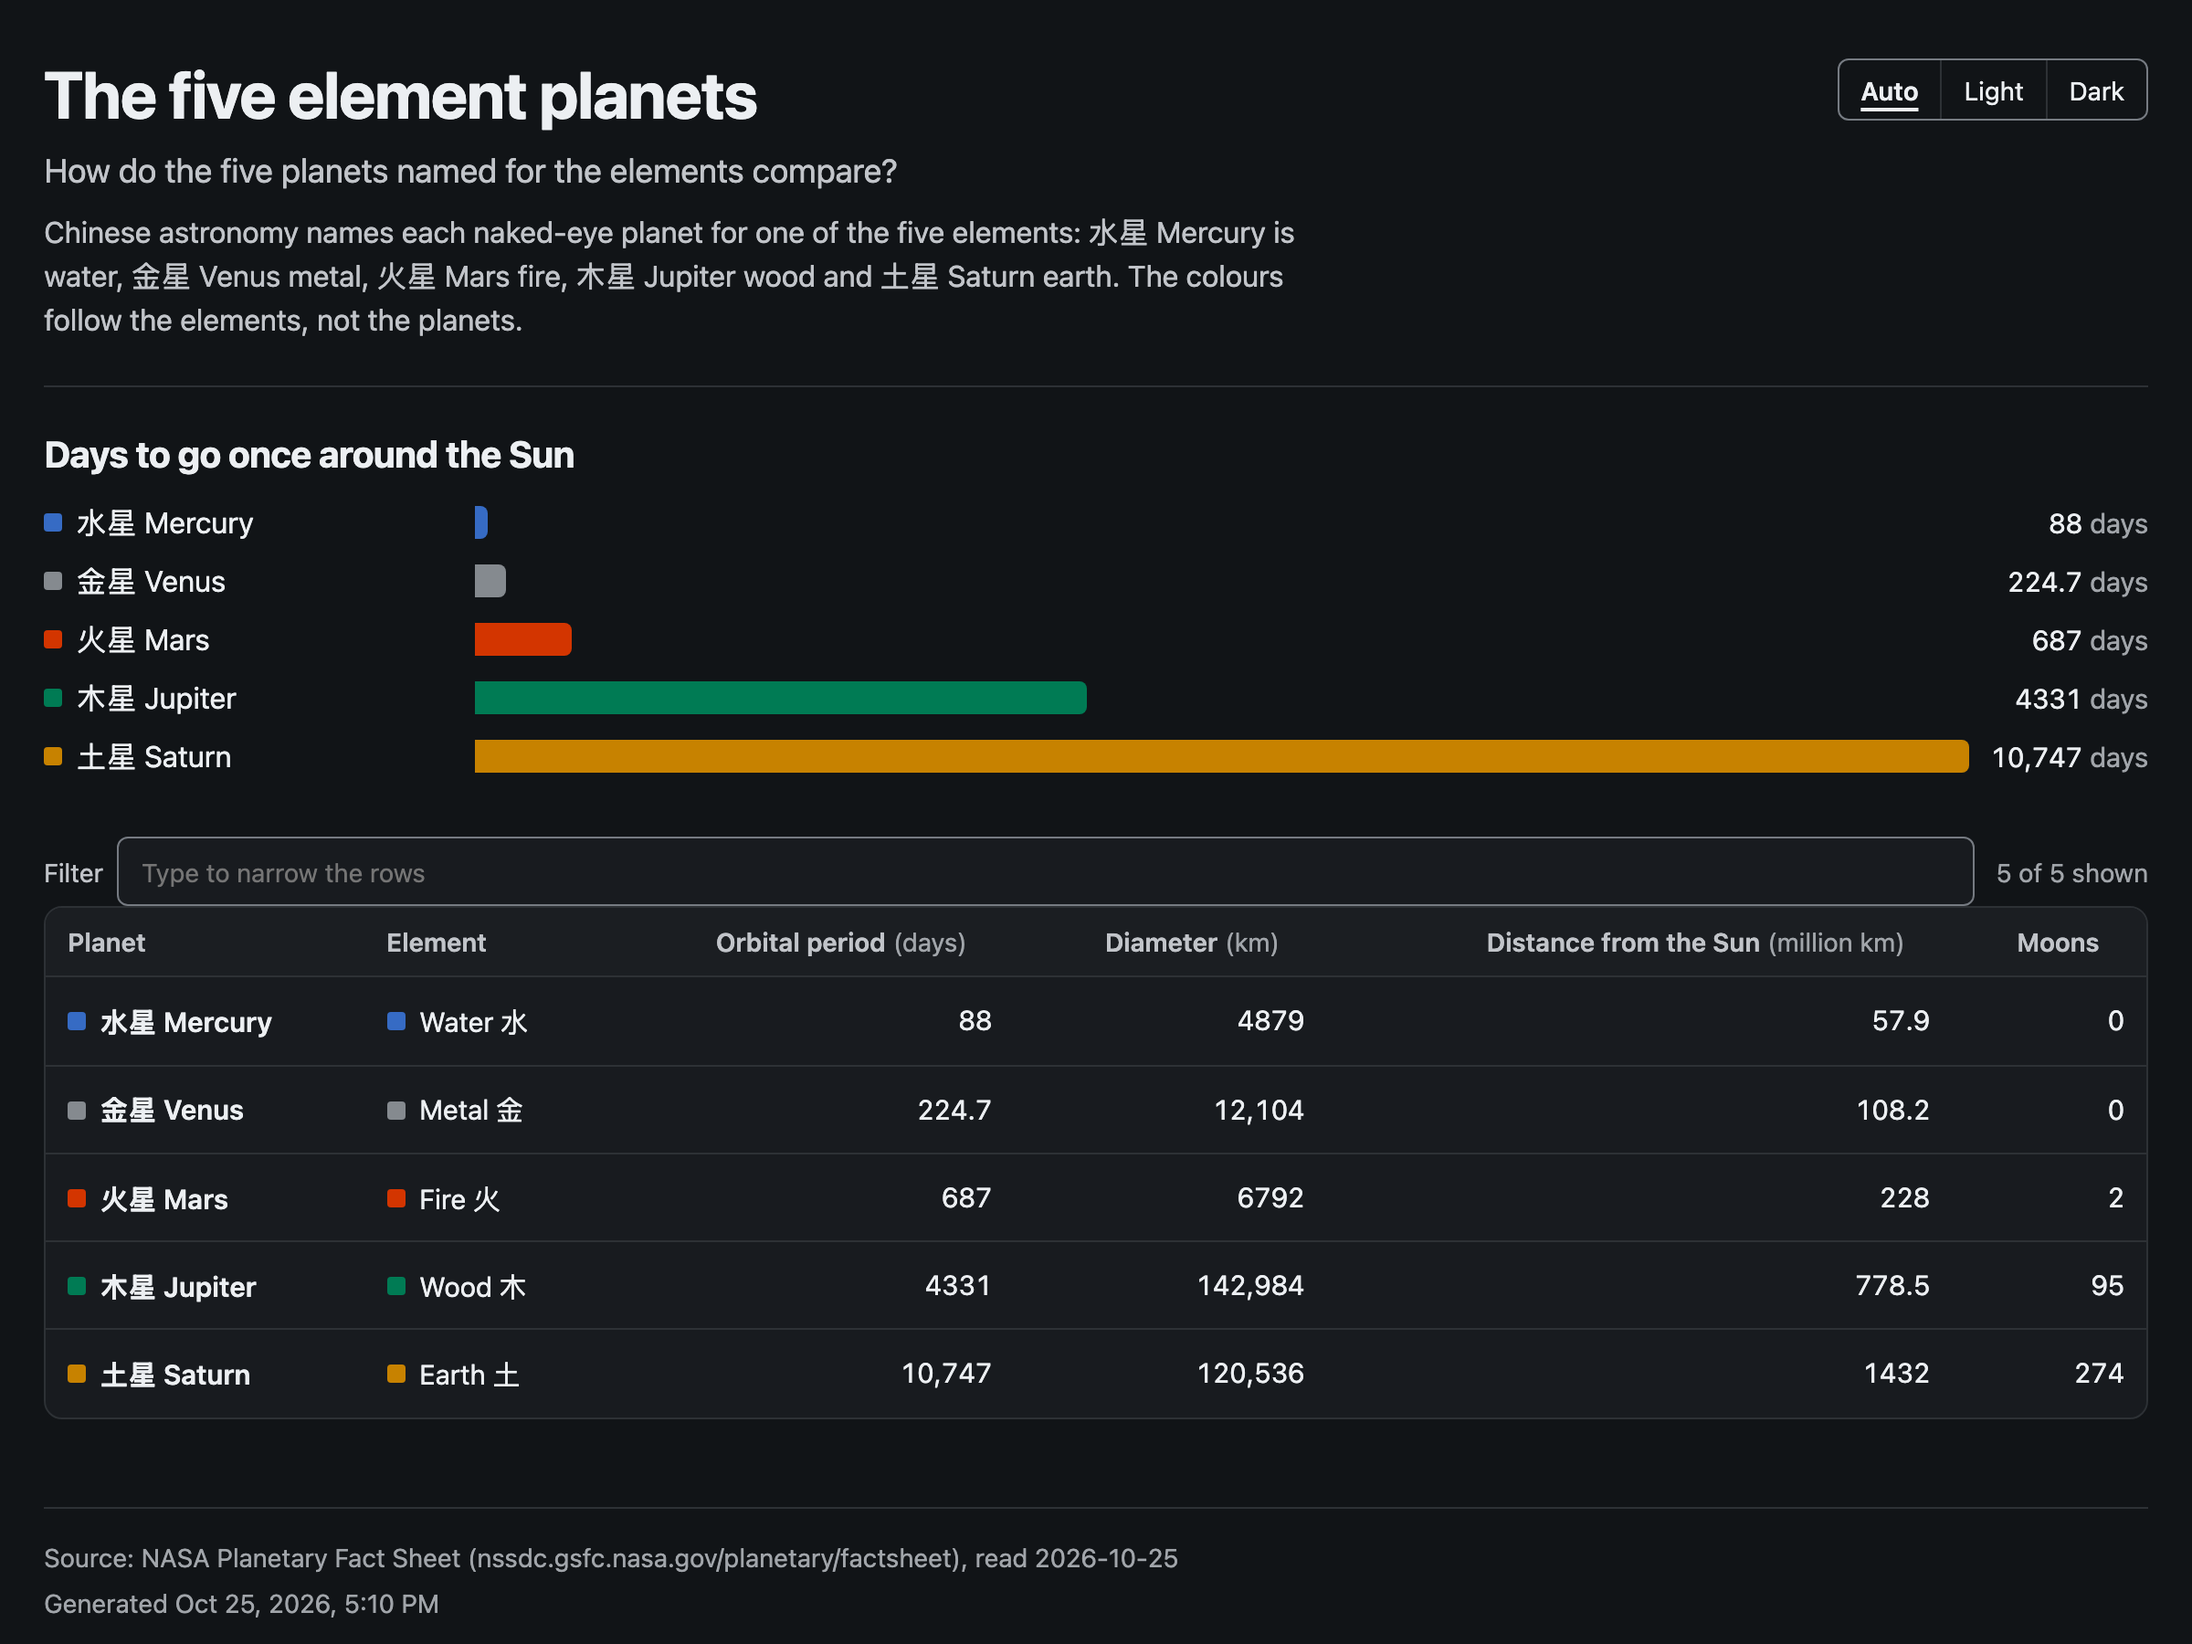
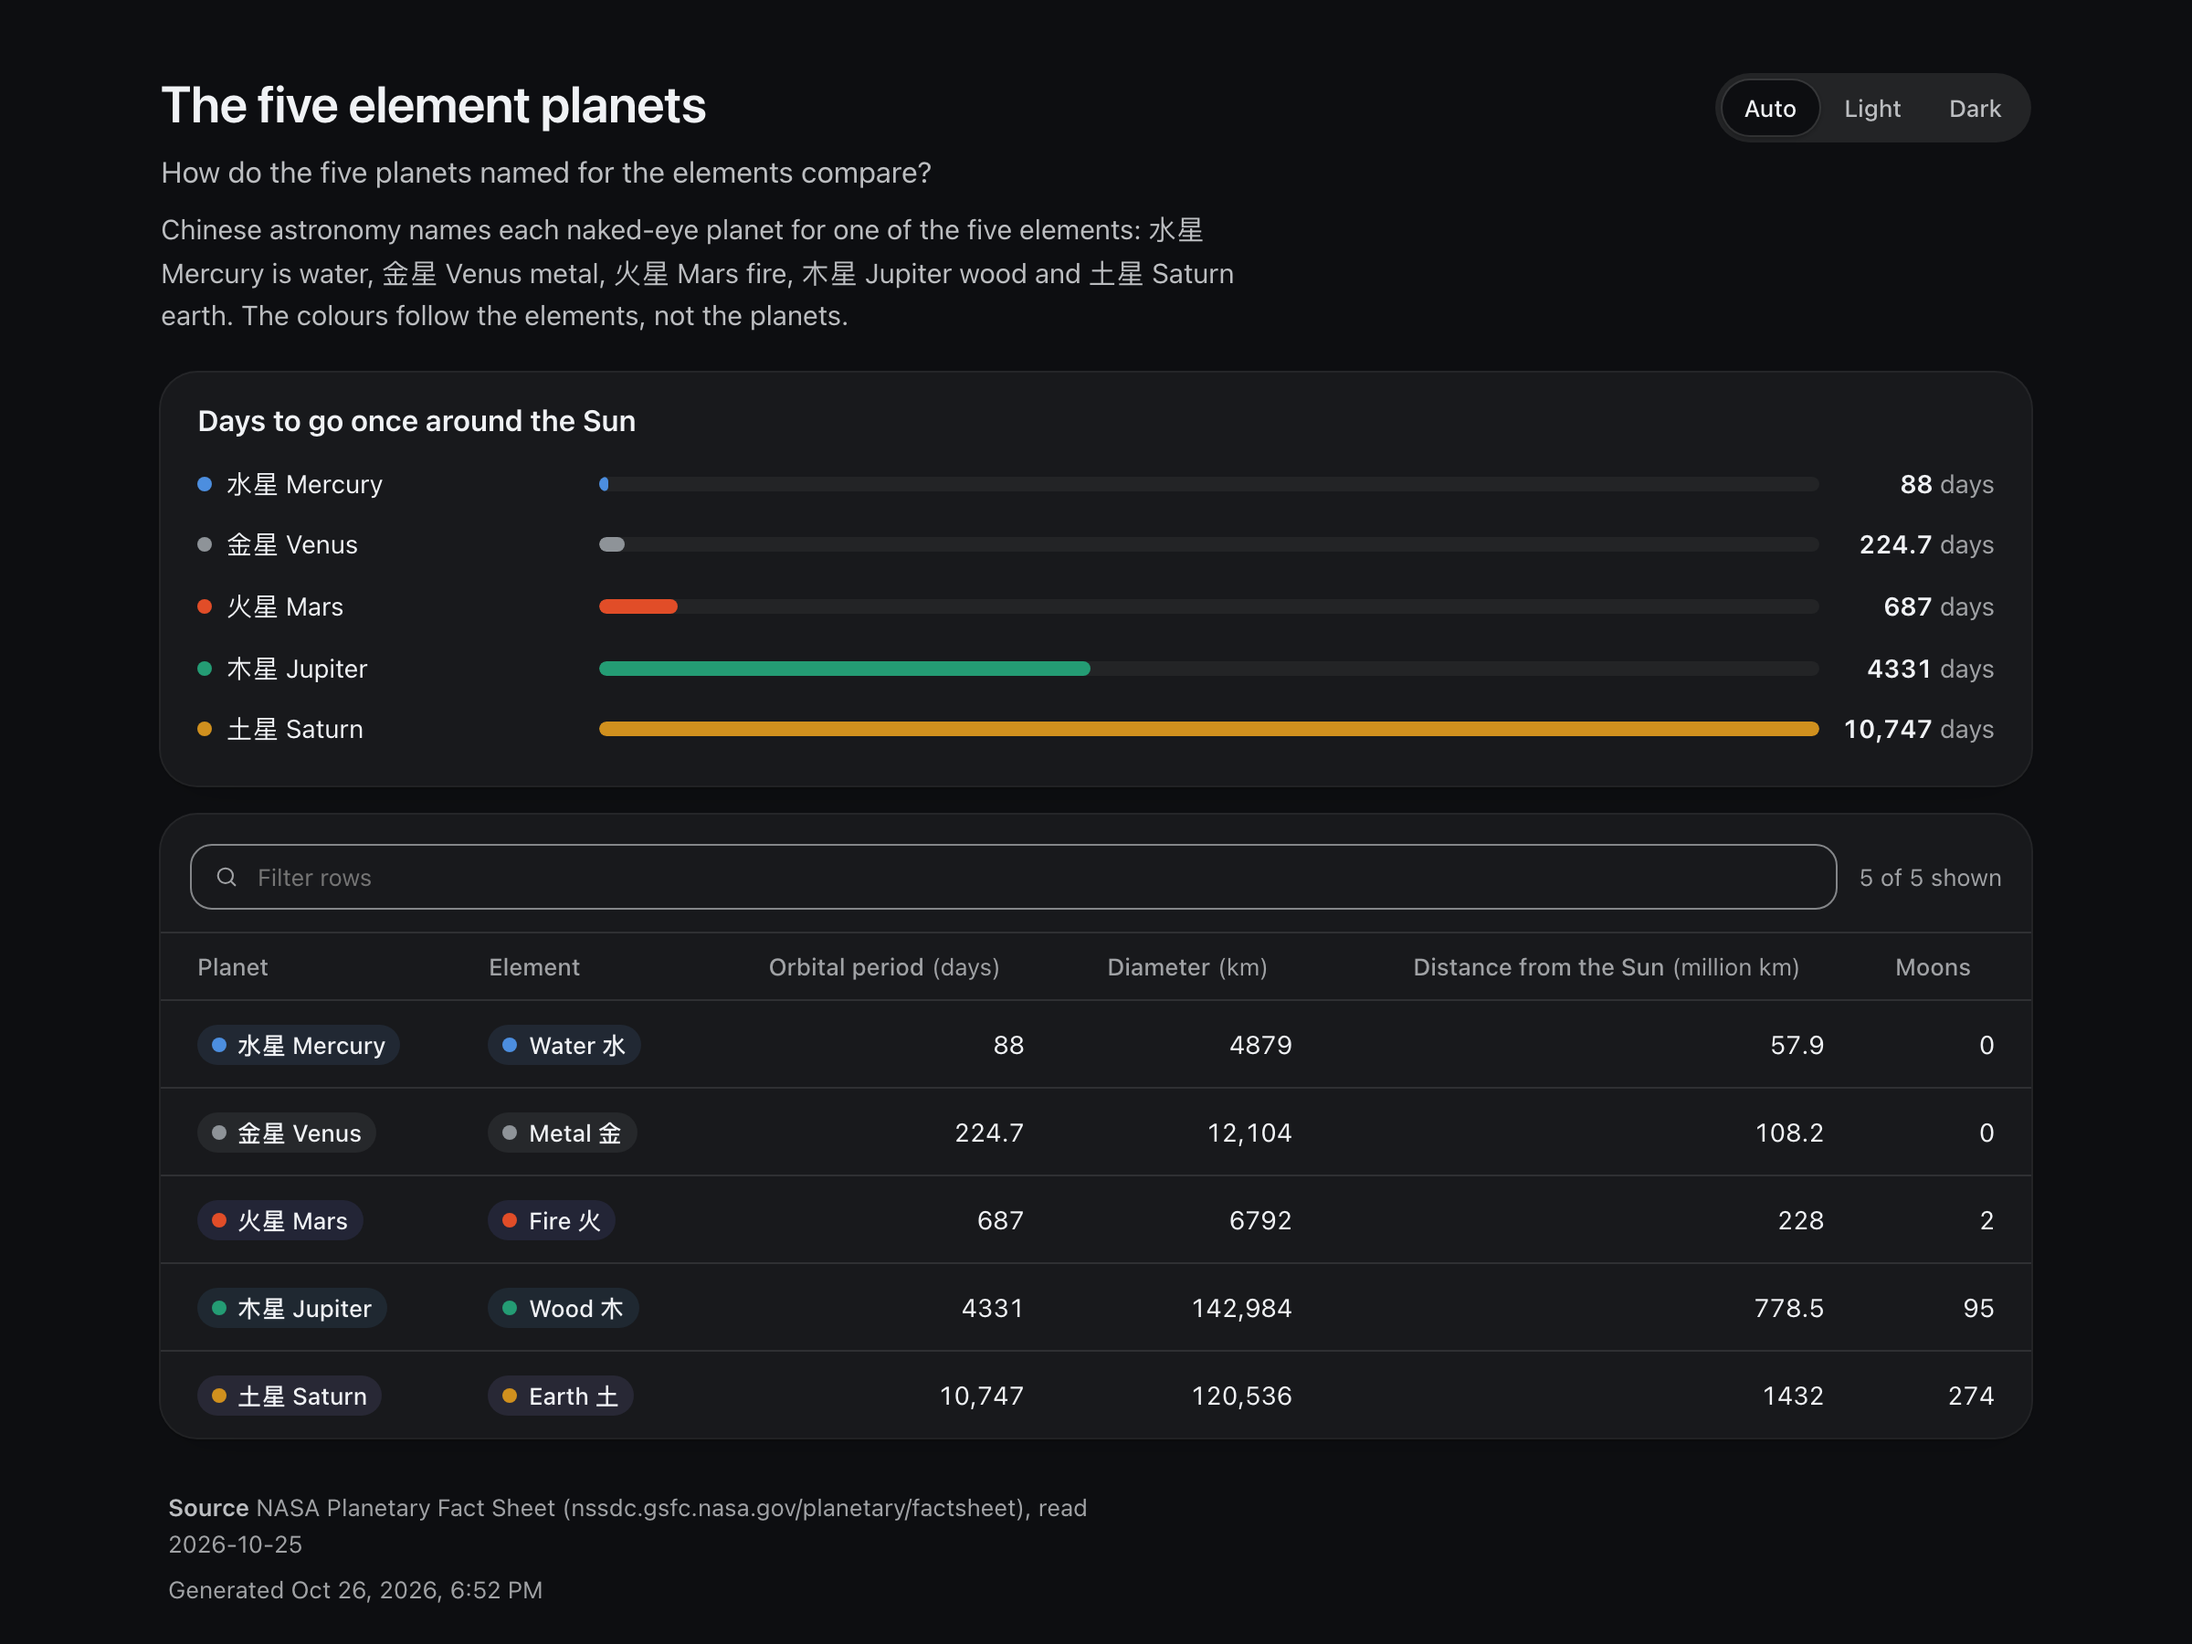
0.2.0: README pictures and hero from the new design; docs for the redesign
- examples/*.png and docs/hero.png recaptured from the 0.2.0 pages (motion
  settled before capture).
- references/shapes.md: best_label, highlights, tappable rows.
- CHANGELOG 0.2.0, DECISIONS (the reference used, where it differs and why,
  the trigger change), version bump.

diff --git a/docs/src/hero.html b/docs/src/hero.html
@@ -44,7 +44,7 @@
     <div class="term" aria-label="A request and what the renderer prints">
       <p class="you">show these checkpoints as a table I can sort and let me pick one</p>
       <p class="dim">page: /tmp/intelligent-ui-anything/comfyui-models.html</p>
-      <p class="dim">shape: compare, 10 rows, 53 KB</p>
+      <p class="dim">shape: compare, 10 rows, 75 KB</p>
       <p>check: <span class="ok">pass</span> <span class="dim">(floor 12/12, lint 0 FAIL)</span></p>
       <p class="dim">opened: yes, with open</p>
       <p class="decision">decision: Use model FLUX.2 [klein] 4B</p>

diff --git a/DECISIONS.md b/DECISIONS.md
@@ -44,6 +44,15 @@ Where this build differs from the brief, or settles something the brief left ope
 
 ## Design
 
+**0.2.0: the look of an answer in a chat, not a report.** Pulkit's bar on 2026-10-26 was ChatGPT's Intelligent UI. openai.com refuses automated browsers, and the press coverage carries no screenshots, so the visual language was taken from OpenAI's own Apps SDK UI (MIT, github.com/openai/apps-sdk-ui): neutral greys, hairline borders at 8 to 10 percent, soft shadows, 16 to 24 px card radii, pill buttons with a near-black primary, tinted status badges, system fonts in few sizes, 150 ms state changes. Its UI guidelines add the rules kept here: at most two actions per card, actions that start a conversation turn, brand colour only on the primary button. Three places differ on purpose:
+- Neutrals carry 0.005 chroma and the raised surface is 99.6 percent, not pure white: Hallmark's lint calls zero-chroma greys and pure white a reflex.
+- The decision dock is solid, not glass: the lint warns on a blur over a translucent fill, and the floor allows no warning.
+- Pills stay on controls and badges; dots and status icons are circles and bar tracks take small radii, per the lint's pill rule.
+
+Every shape was screenshotted at 1280 and 390 px in both themes after each change, and judged against that bar; the fixes it forced are in the 0.2.0 changelog (names wrapping, a badge that doubled row height, a table 60 px too wide, phone rows six lines tall, a dock that took three rows before anything was picked).
+
+**The trigger was the bigger gap.** On "lay out the options so I can choose one" the old description lost to prose, and a global "load the design skills" rule led the agent to hand-write HTML. The description now leads with the situation (an answer that makes the user compare, choose, read a long document, follow progress or review findings) and says to use the skill instead of hand-written HTML because its templates already pass a design check.
+
 **Colour is reserved for meaning.** Chrome is ink on paper; the accent is ink. Every hue on a page is a semantic token, so a colour always says something. Bars in a chart are one neutral colour unless the rows carry an identity (five elements) or the agent names a colour column: the first screenshot painted build times with CI status, which the dataviz rules forbid.
 
 **The five-element palette was computed, not picked.** A search over OKLCH candidates against the dataviz validator gave colour-blind separation ΔE 8.8 (light) and 8.6 (dark) over all pairs, normal-vision ΔE 17.4 and 15.3, and 3:1 contrast on every surface in both themes. Metal is iron grey on light paper and silver on dark, because white cannot show on white and gold collides with earth's ochre; it is under the chroma floor by design and named on every mark. Water is blue because black is the page's ink.

diff --git a/CHANGELOG.md b/CHANGELOG.md
@@ -1,5 +1,20 @@
 # Changelog
 
+## 0.2.0 (2026-10-26)
+
+The pages now look like an answer inside a chat, not a report.
+
+- One new locked theme in the visual language of ChatGPT's inline answers (after OpenAI's MIT-licensed Apps SDK UI tokens): neutral surfaces with a 0.005 chroma floor, white cards with hairline edges and soft shadows, pill controls, tinted meaning badges with a dot, an outlined icon sprite, and fewer type sizes. Floor 12/12 and Hallmark lint 0 FAIL, 0 REFLEX, 0 WARN on every template.
+- compare: a leaders strip (the best value of up to three `better` columns and who holds it), the table in a card with a radio column, whole rows tappable, best values as green check pills. On a phone each row becomes a small card with a two-column grid, and the column heads become a swipeable row of sort chips.
+- choose: whole cards tappable, the selected card ringed, facts as stats, pros and cons with icons, the recommendation as a badge with its reason under the summary.
+- track: a large progress figure, a status icon per step, the running step tinted.
+- inspect: an overview of lane counts, each lane a card with its count, severity as tinted pills, decisions as pill choices.
+- explain: the contents and the document in cards, changed sections marked with a bar in their meaning's colour.
+- The decision dock floats, sits as one quiet line until the first pick, opens with a short settle, and says Copied or Sent on the button itself.
+- Motion: cards rise and bars grow as if streamed (420 ms, ease-out), off for reduced motion and on live track pages so reloads do not flicker. Content is in the HTML and visible without script; a one-line head script adds the `js` class before first paint.
+- The description now leads with when an answer should be a page and says to use it instead of writing HTML by hand. Measured in a real `claude -p` setup with MCP servers and global rules: 6 of 7 should-trigger prompts and 0 of 4 should-not.
+- New compare options: `columns[].best_label`, `highlights: false`.
+
 ## 0.1.1 (2026-10-26)
 
 Acceptance pass on a second machine, and the move to the IndusCore-AI organisation.

diff --git a/references/shapes.md b/references/shapes.md
@@ -23,11 +23,13 @@ For several things with the same attributes. Optional bar chart for one measure;
 | `data` field | What it is |
 | --- | --- |
 | `rows` | list of objects, one per thing compared (required) |
-| `columns` | list of `{key, label, type, unit, better, max}` in display order; omit to use every key of the rows. The first column names each row |
+| `columns` | list of `{key, label, type, unit, better, best_label, max}` in display order; omit to use every key of the rows. The first column names each row |
 | `columns[].type` | `text`, `number`, `rating` (needs `max`), `tag` (a pill; a list makes several), `link` (`{text, href}` or a URL), `change` (signed finance change), or a meaning: `five-elements`, `severity`, `status`, `diff`. Omitted: inferred |
-| `columns[].better` | `higher` or `lower`: marks the best value as "highest" or "lowest" and sorts that way first |
+| `columns[].better` | `higher` or `lower`: the best value gets a green check pill, the column sorts that way first, and the column joins the leaders strip at the top |
+| `columns[].best_label` | the leaders-strip caption for that column, when "Highest GenEval" or "Lowest Weights" reads badly (for example `"Smallest download"`) |
+| `highlights` | `false` hides the leaders strip. It shows the best value of up to three `better` columns and who holds it; it needs three rows or more |
 | `chart` | `{value, label, title, unit, color}`: horizontal bars for the numeric column `value`. Bars are one neutral colour unless `color` names a column with a meaning, or a `five-elements` column exists |
-| `pick` | `true` or `{prompt, verb, header, note}`: each row gets a button; `prompt` is the line the agent gets, with `{key}` filled from the row (default `"Use {first column}"`) |
+| `pick` | `true` or `{prompt, verb, header, note}`: each row gets a radio and the whole row is tappable; `prompt` is the line the agent gets, with `{key}` filled from the row (default `"Use {first column}"`) |
 | `notes` | lines shown under the table (method, caveats) |
 
 ```json

diff --git a/README.md b/README.md
@@ -25,6 +25,7 @@ Claude Code · Codex CLI · Cursor · Antigravity · claude.ai
 Agents answer in prose. When the answer is ten models with six attributes each, or twenty findings across three sessions, prose makes you scroll, compare in your head and then type your choice back. This skill gives the agent five locked page templates instead. The agent writes JSON, a script fills the template, checks it, and opens it where you are. You sort, filter and pick. Your pick comes back to the agent as one line, by a Copy button or straight into the session.
 
 - **Five shapes, nothing else.** Compare, choose, explain, track, inspect. A question that fits none gets prose.
+- **Looks like an answer, not a report.** Cards, the leaders at a glance, tappable rows and options, status icons, a floating pick dock, and motion that streams in. Light, dark and phone layouts are designed, not shrunk.
 - **The decision comes back.** Every pick shows the exact line the agent will get. Served pages send it with one click.
 - **Opens where you are.** An artifact in Claude Code, your browser in a terminal, a localhost URL over SSH, a path inside a sandbox.
 - **Honest by construction.** A page that states a number its data does not hold fails the check and never opens.

diff --git a/SKILL.md b/SKILL.md
@@ -4,7 +4,7 @@ description: Answers with a small interactive page instead of prose whenever the
 license: MIT
 compatibility: Needs Node.js 18 or later on the PATH. Works in Claude Code, Codex CLI, Cursor, Antigravity CLI and other agents that run skill scripts; on claude.ai it needs code execution. Makes no network requests.
 metadata:
-  version: "0.1.1"
+  version: "0.2.0"
 ---
 
 # Intelligent UI Anything
